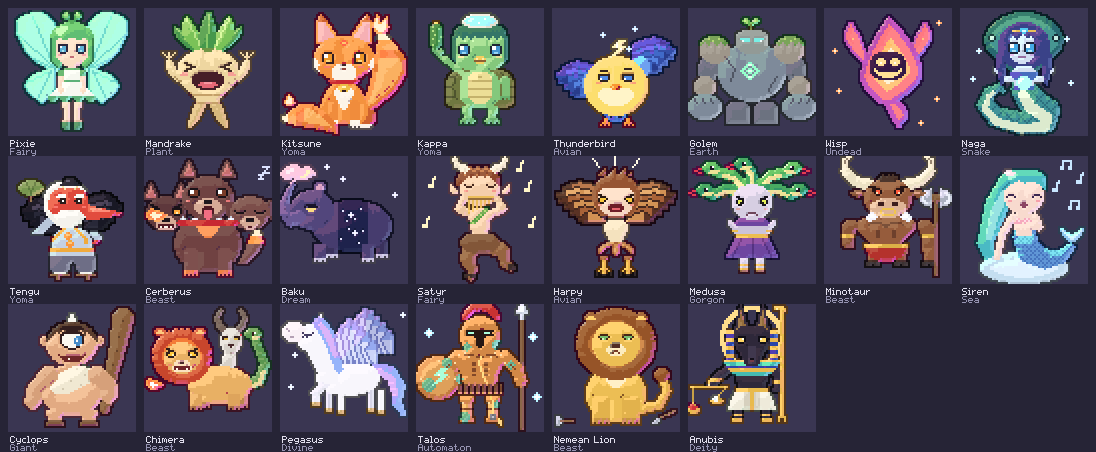
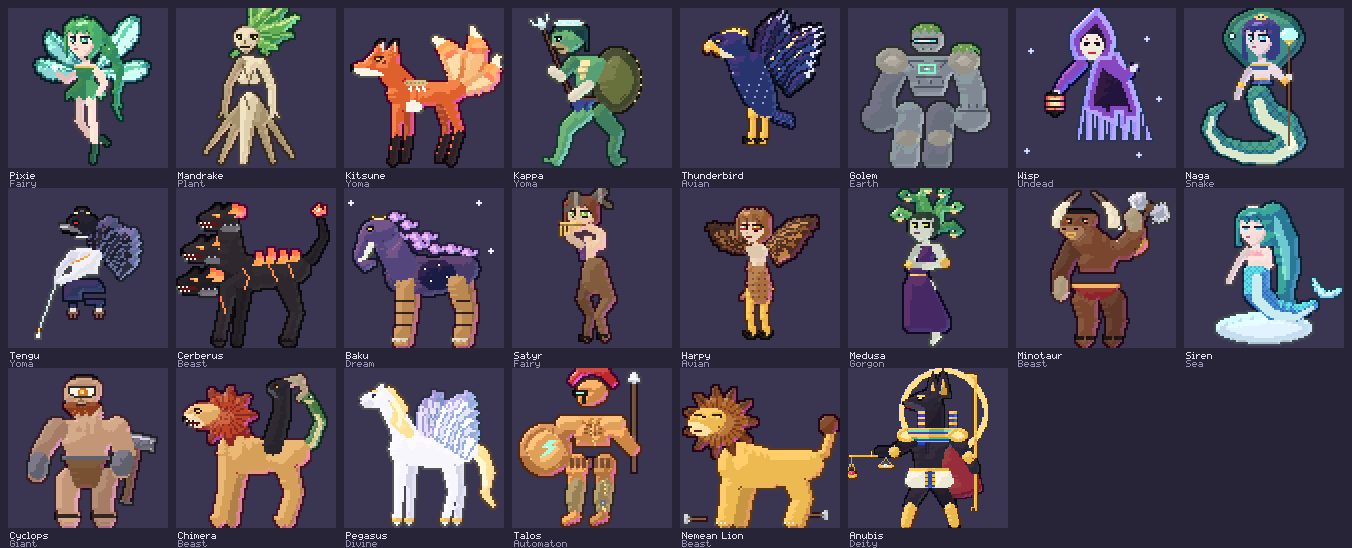
Document the boss, buffs, animations and portraits; refresh docs images
README gains a buffs-and-boss guide with the shop items and Anubis's
script, sections on attack animations and portraits, updated balance
numbers from tools/simulate.py, and the new modules in the layout.
The roster sheet handles 80px and 112px sprites, the screen montage
shows a portrait dialogue, and tools/make_portrait_image.py renders
docs/portraits.png.

Claude-Session: https://claude.ai/code/session_01Xb5Gqfy7fB8t885hcTm877

diff --git a/tools/make_roster_image.py b/tools/make_roster_image.py
@@ -13,8 +13,10 @@ ROOT = os.path.dirname(os.path.dirname(os.path.abspath(__file__)))
 OUT = os.path.join(ROOT, "docs", "roster.png")
 
 order = [k for k in SP.SPECIES]
+# Sprites are 80x80, drawn at 2x. Anything larger (the boss) is fitted into
+# the same cell rather than given a row of its own.
 Z, COLS, PAD = 2, 8, 8
-cell = 64 * Z
+cell = 80 * Z
 rows = (len(order) + COLS - 1) // COLS
 sheet = pygame.Surface((COLS * (cell + PAD) + PAD,
                         rows * (cell + 20) + PAD))
@@ -25,7 +27,12 @@ for i, key in enumerate(order):
     x = PAD + (i % COLS) * (cell + PAD)
     y = PAD + (i // COLS) * (cell + 20)
     pygame.draw.rect(sheet, (58, 54, 82), (x, y, cell, cell))
-    sheet.blit(pygame.transform.scale(MON.sprite(sp.art), (cell, cell)), (x, y))
+    spr = MON.sprite(sp.art)
+    w, h = spr.get_size()
+    k = min(Z, cell / max(w, h))
+    size = (int(w * k), int(h * k))
+    sheet.blit(pygame.transform.scale(spr, size),
+               (x + (cell - size[0]) // 2, y + cell - size[1]))
     font.draw(sheet, sp.name, x + 2, y + cell + 4, (226, 224, 238))
     font.draw(sheet, sp.race, x + 2, y + cell + 12, (150, 148, 178))
 pygame.image.save(sheet, OUT)

diff --git a/tools/make_portrait_image.py b/tools/make_portrait_image.py
@@ -1,0 +1,28 @@
+"""Render docs/portraits.png: every dialogue portrait, side by side."""
+import os, sys
+sys.path.insert(0, os.path.dirname(os.path.dirname(os.path.abspath(__file__))))
+os.environ.setdefault("SDL_VIDEODRIVER", "dummy")
+import pygame
+pygame.init(); pygame.display.set_mode((1, 1))
+
+from game.art import portraits
+from game.font import get_font
+
+ROOT = os.path.dirname(os.path.dirname(os.path.abspath(__file__)))
+OUT = os.path.join(ROOT, "docs", "portraits.png")
+
+NAMES = {v: k for k, v in portraits.SPEAKERS.items()}
+NAMES["hero"] = "The binder"
+Z, PAD = 2, 10
+w, h = portraits.W * Z, portraits.H * Z
+keys = list(portraits.CAST)
+sheet = pygame.Surface((len(keys) * (w + PAD) + PAD, h + PAD * 2 + 14))
+sheet.fill((38, 36, 54))
+font = get_font()
+for i, key in enumerate(keys):
+    x = PAD + i * (w + PAD)
+    pygame.draw.rect(sheet, (58, 54, 82), (x, PAD, w, h))
+    sheet.blit(pygame.transform.scale(portraits.portrait(key), (w, h)), (x, PAD))
+    font.draw(sheet, NAMES.get(key, key), x + 4, PAD + h + 4, (226, 224, 238))
+pygame.image.save(sheet, OUT)
+print("wrote", OUT, sheet.get_size())

diff --git a/tools/make_docs_image.py b/tools/make_docs_image.py
@@ -50,7 +50,13 @@ def main():
     ov.px, ov.py = 7.0, 6.0
     p.map_key = "shrine"; ov._setup_render(); ov.banner_t = 0.0
     h.tick(30)
+    # a pilgrim at the shrine door, to show the portraits
+    from game.scenes import Dialogue
+    sefa = maps.get("shrine").npcs[1]
+    h.game.push(Dialogue(h.game, sefa.lines[1:2], sefa.name))
+    h.tick(120)
     shots.append(grab(h, "shrine"))
+    h.game.pop()
     # the greek ruins
     ov.map = maps.get("ruins"); ov.tx, ov.ty = 9, 8
     ov.px, ov.py = 9.0, 8.0

diff --git a/README.md b/README.md
@@ -2,10 +2,12 @@
 
 A proof-of-concept monster-binding RPG for Windows PC. Pixel sprites are lit
 and staged in a diorama, and the finished frame is dithered down to 15-bit
-colour the way a PlayStation framebuffer stored it. Twenty-two cutesy
-monsters drawn from world mythology, Greek and Roman included, a synthesised
-chiptune score, and a battle system built on Shin Megami Tensei's **Press
-Turn** rules rather than Pokémon's.
+colour the way a PlayStation framebuffer stored it. Twenty-two monsters from
+world mythology, Greek and Roman included, drawn at 80×80 in an anime-leaning
+style after Breath of Fire and Xenogears, each with its own attack
+animation. Fire Emblem-style portraits for everyone who speaks. A
+synthesised chiptune score, and a battle system built on Shin Megami
+Tensei's **Press Turn** rules rather than Pokémon's.
 
 You bind creatures instead of catching them, you field three at once, and a
 single misread of an enemy's affinities can cost you the entire turn.
@@ -78,8 +80,44 @@ Practical consequences:
 - **Scan** before you experiment. Guessing at a Repel costs you the round.
 - Physical arts cost HP, magic costs MP, and **Strike** is always free — you
   can never be locked out of acting.
-- Buffs and debuffs stack three deep at 22% each; against the boss they matter
-  more than raw damage.
+- Buffs and debuffs act on damage directly: each stage is worth 25%, they
+  stack three deep, and they wear off after three rounds. Against the boss
+  they matter more than raw damage.
+
+## Buffs, debuffs and the boss
+
+A stage of attack multiplies damage dealt by 1.25, two stages by 1.5, three
+by 1.75; a stage *down* divides by the same amount, so Sap on the attacker
+and Ward on the defender stack against each other. Stages last three rounds
+from the last time they were applied, and **Dispel** strips positive stages
+only — it removes an enemy's buffs without clearing your own debuffs on it.
+
+| Tool | Where | Effect |
+| --- | --- | --- |
+| Bolster / Ward / Haste | skills | allies' attack / defence / speed +1 |
+| Sap / Crack / Slow | skills | foes' attack / defence / speed −1 |
+| Dispel | Pixie (Lv11), Satyr (Lv10) | strips every foe's buffs |
+| Ward Incense | shop, 90 | party defence +1 |
+| Withering Salt | shop, 90 | every foe's attack −1 |
+| Unbinding Bell | shop, 140 | Dispel, from the bag |
+
+**Anubis** (`game/battle/bosses.py`) is scripted rather than greedy, and the
+script is readable from the battle screen:
+
+1. **Gilded Aegis** — his defence goes up two stages; a gold `D+2` tag
+   appears by his gauge. Until you strip it with Dispel or a bell (or drag
+   it back down with Crack), nothing you have hits hard.
+2. **Verdict** — a physical sweep across the party.
+3. **Lift the Scales** — he charges. `SCALES RAISED` flashes over him and
+   you have exactly one turn before **the Weighing**, an Almighty blow to the
+   whole party that no affinity resists. Ward, Sap, heal whoever is low — or
+   eat it.
+4. Below 30% HP he casts **Wrath of the Duat** (attack +2) and goes straight
+   for the scales again. Sap it, or salt it.
+
+He is immune to ailments, so Sleep and Bind are wasted turns. Losing to him
+costs nothing: you wake at the shrine door, healed, with a hint. Pilgrim Sefa
+at the shrine and Pell in the village both tell you what to bring.
 
 ## Spell effects
 
@@ -124,22 +162,32 @@ You carry six monsters; the **first three** fight, and you reorder them with
 4. Shrine of the Scale — deeper grass, Lv8–16 monsters, a healing spring.
 5. The altar — **Anubis**, who repels Light, drains Dark, resists Physical,
    Fire and Ice, acts **twice per turn**, and is weak to exactly one thing:
-   **Wind**. Bring a Tengu, a Pixie or a Mandrake, and bring draughts.
+   **Wind**. He meets you at your own level, from 14 to 17. Bring Dispel or
+   a bell, bring incense and salt, and read the section above.
 
-Simulated against the engine's own AI, a level 13 party wins about 60% of the
-time and a level 15 party around 95%. Wind is not strictly required — the
-extra press turns it grants mainly shorten the fight — but survivability is:
-a team that resists Physical soaks his Judge's Blade, and a team that does not
-tends to lose two monsters in one turn. Cast Light at him once and you will
-lose the entire round.
+`tools/simulate.py` plays the same party and bag through the fight two ways:
+a *tactician* that strips his gold, wards before the Weighing and saps his
+wrath, and a *brute* that only ever attacks and heals.
+
+| Level 14 party | Tactician | Brute |
+| --- | --- | --- |
+| Tengu, Pixie, Kappa | 87% | 3% |
+| Thunderbird, Golem, Harpy | 100% | 28% |
+| Kitsune, Kappa, Cerberus (all resisted) | 0% | 0% |
+
+Playing him well is what wins; so is out-levelling him, slowly — a brute
+party at level 19 wins 76% and at level 21, 94%. Cast Light at him once and
+you will lose the entire round.
 
 ## The monsters
 
 Twenty-two species, each with an affinity table meant to be exploited in both
-directions, and each with a joke in how it is drawn: the Thunderbird is too
-pleased with itself to open its eyes fully, Medusa's snakes are delighted to
-meet you and she is not, the Nemean Lion sits among the arrows that bounced
-off it, and Talos's ankle is leaking.
+directions. They are drawn at 80×80 (Anubis at 112) in three-quarter view,
+in a style closer to Breath of Fire IV and Xenogears than to a cute
+collectable: long limbs, sharp faces, slit eyes, and a detail of story in
+each — the Nemean Lion stands among the arrows that bounced off it, the
+Wisp is a lantern-carrying wraith under a cowl, and Talos's ankle is
+leaking ichor round the nail.
 
 ![roster](docs/roster.png)
 
@@ -179,6 +227,45 @@ The Nemean Lion is the roster's teaching moment: the free Strike is physical,
 so a party carrying nothing but physical skills cannot scratch it. Bring
 magic, or walk away — if you land nothing at all for eight rounds the fight is
 called off rather than grinding on forever.
+
+## Attack animations
+
+Every species is authored in three poses — `idle`, `attack` and `cast` —
+from the same parts (`game/art/parts.py`: tapered tubes, feathers, wings,
+rotation about a pivot), so a Minotaur's axe is lifted and swung rather than
+redrawn. `game/battle/perform.py` turns a skill into a performance:
+
+- **Melee** (physical attacks): a wind-up, a dash toward the target with
+  afterimages, the hit, and the return.
+- **Cast** (magic): the caster rises into the cast pose with a glow, holds,
+  and settles.
+- **Support** (buffs, heals, the boss's charge): a shorter rise and hold.
+
+The spell effect waits for the performance's impact frame, so the fire
+column erupts when the Kitsune's tails flare, not before.
+`python tools/anim_strip.py kitsune ember out.png` films one action in a
+real battle scene, frame by frame.
+
+## Portraits
+
+![portraits](docs/portraits.png)
+
+Everyone who speaks has a bust in the Fire Emblem idiom: a three-quarter
+face beside the text box, shoulders tucked behind it, sliding in as the
+dialogue opens. Anubis speaks from the right, turned to face you, and the
+pause menu shows the binder.
+
+They come from their own renderer (`game/art/portraits.py`) because the
+lighting they want is the opposite of the sprites'. Instead of normals and
+banded Lambert shading, it is cel shading: a flat base, one shadow and one
+light. Form shadows are crisp bands down the side away from the key light;
+cast shadows fall under the fringe and the chin; the silhouette gets a dark
+line and overlapping shapes get a softer one. Hair is built from tapered
+locks that each end in a point. The eyes are stamped by hand, because in
+anime faces they carry the character: lidded for the trader, narrowed for
+the elder, sharp for the warden, round for Nen. Portraits are drawn at the
+world's full 480×320 resolution through a `draw_front` hook, after the
+colour grade but under the UI.
 
 ## Music
 
@@ -342,7 +429,9 @@ game/
   scenes.py             title, dialogue, party, bag, shop, bestiary
   art/
     shading.py          material maps -> lit sprites (fields, normals, ramps)
-    monsters.py         22 species, composed from parts
+    parts.py            sprite authoring: tubes, feathers, wings, rotation
+    monsters.py         22 species, three poses each, composed from parts
+    portraits.py        cel-shaded dialogue portraits
     terrain.py          procedural ground, seamless, four variants each
     tiles.py            standing props, lit through shading.py
     actors.py           overworld characters
@@ -354,11 +443,14 @@ game/
   battle/effects.py     per-element spell choreography
   battle/
     engine.py           the Press Turn rules - no pygame, fully testable
+    bosses.py           Anubis's script
+    perform.py          attack and cast performances
     scene.py            battle presentation and input
     effects.py          damage numbers, element bursts, sigil throws
   data/                 elements, skills, species, items
   world/                maps.py, overworld.py
-tests/test_press_turns.py    26 tests over the turn economy and the engine
+tests/                  39 tests: the turn economy, the engine, stages and
+                        the boss, and that every speaker has a portrait
 tools/                  headless playtest + balance simulation harnesses
 ```
 
@@ -385,7 +477,7 @@ artifact you can download to see what that commit actually looked like.
 ## Development
 
 ```
-python -m unittest discover -s tests   # 28 tests, press turn rules and engine
+python -m unittest discover -s tests   # 39 tests: press turns, engine, boss, portraits
 python tools/simulate.py 300           # play 300 battles per matchup, print win rates
 python tools/run_playtest.py out/      # drive the real game headlessly, save screenshots
 python tools/run_world_test.py out/    # walk village -> route -> shrine, talk, shop, boss
@@ -393,20 +485,25 @@ python tools/contact_sheet.py out.png  # render every monster sprite
 python tools/preview.py kitsune        # one sprite, blown up for inspection
 python tools/render_music.py out/      # export every music track to WAV
 python tools/make_roster_image.py      # regenerate docs/roster.png
+python tools/make_portrait_image.py    # regenerate docs/portraits.png
+python tools/anim_strip.py tengu gust out.png  # film one attack animation
 python tools/effect_strip.py out.png   # filmstrip of every spell effect
 python tools/shot_maps.py out/         # render each map in the diorama
 python tools/bench_frame.py            # frame cost, with and without post-processing
 ```
 
 The balance numbers in `tools/simulate.py` are what the difficulty was tuned
-against: roughly 95% wins at level with a 3-monster party, 65% against a
-higher-level group, near-zero four levels under, and a boss that needs both the
-right element and the right defences.
+against: 95–100% wins at level against ordinary wild groups, about half
+against a full group a level above you, near zero four levels under, and a
+boss that a thoughtful party beats most of the time and a button-masher
+almost never does. A badly matched starter against two monsters that hit
+its weakness wins only about 7%, which is what Flee is for.
 
 ## Scope
 
 This is a proof of concept, so it stops where the systems have been proven:
-four maps, twenty-two species, forty skills, one boss, a bestiary, a shop,
+four maps, twenty-two species with attack animations, seven portraits,
+forty-odd skills, one scripted boss, a bestiary, a shop,
 saving, a complete Press Turn implementation, eight music tracks and a
 diorama renderer with a PS1 finish. There is no fusion, no trading and no
 multi-area story — those are the obvious next steps, not oversights.
